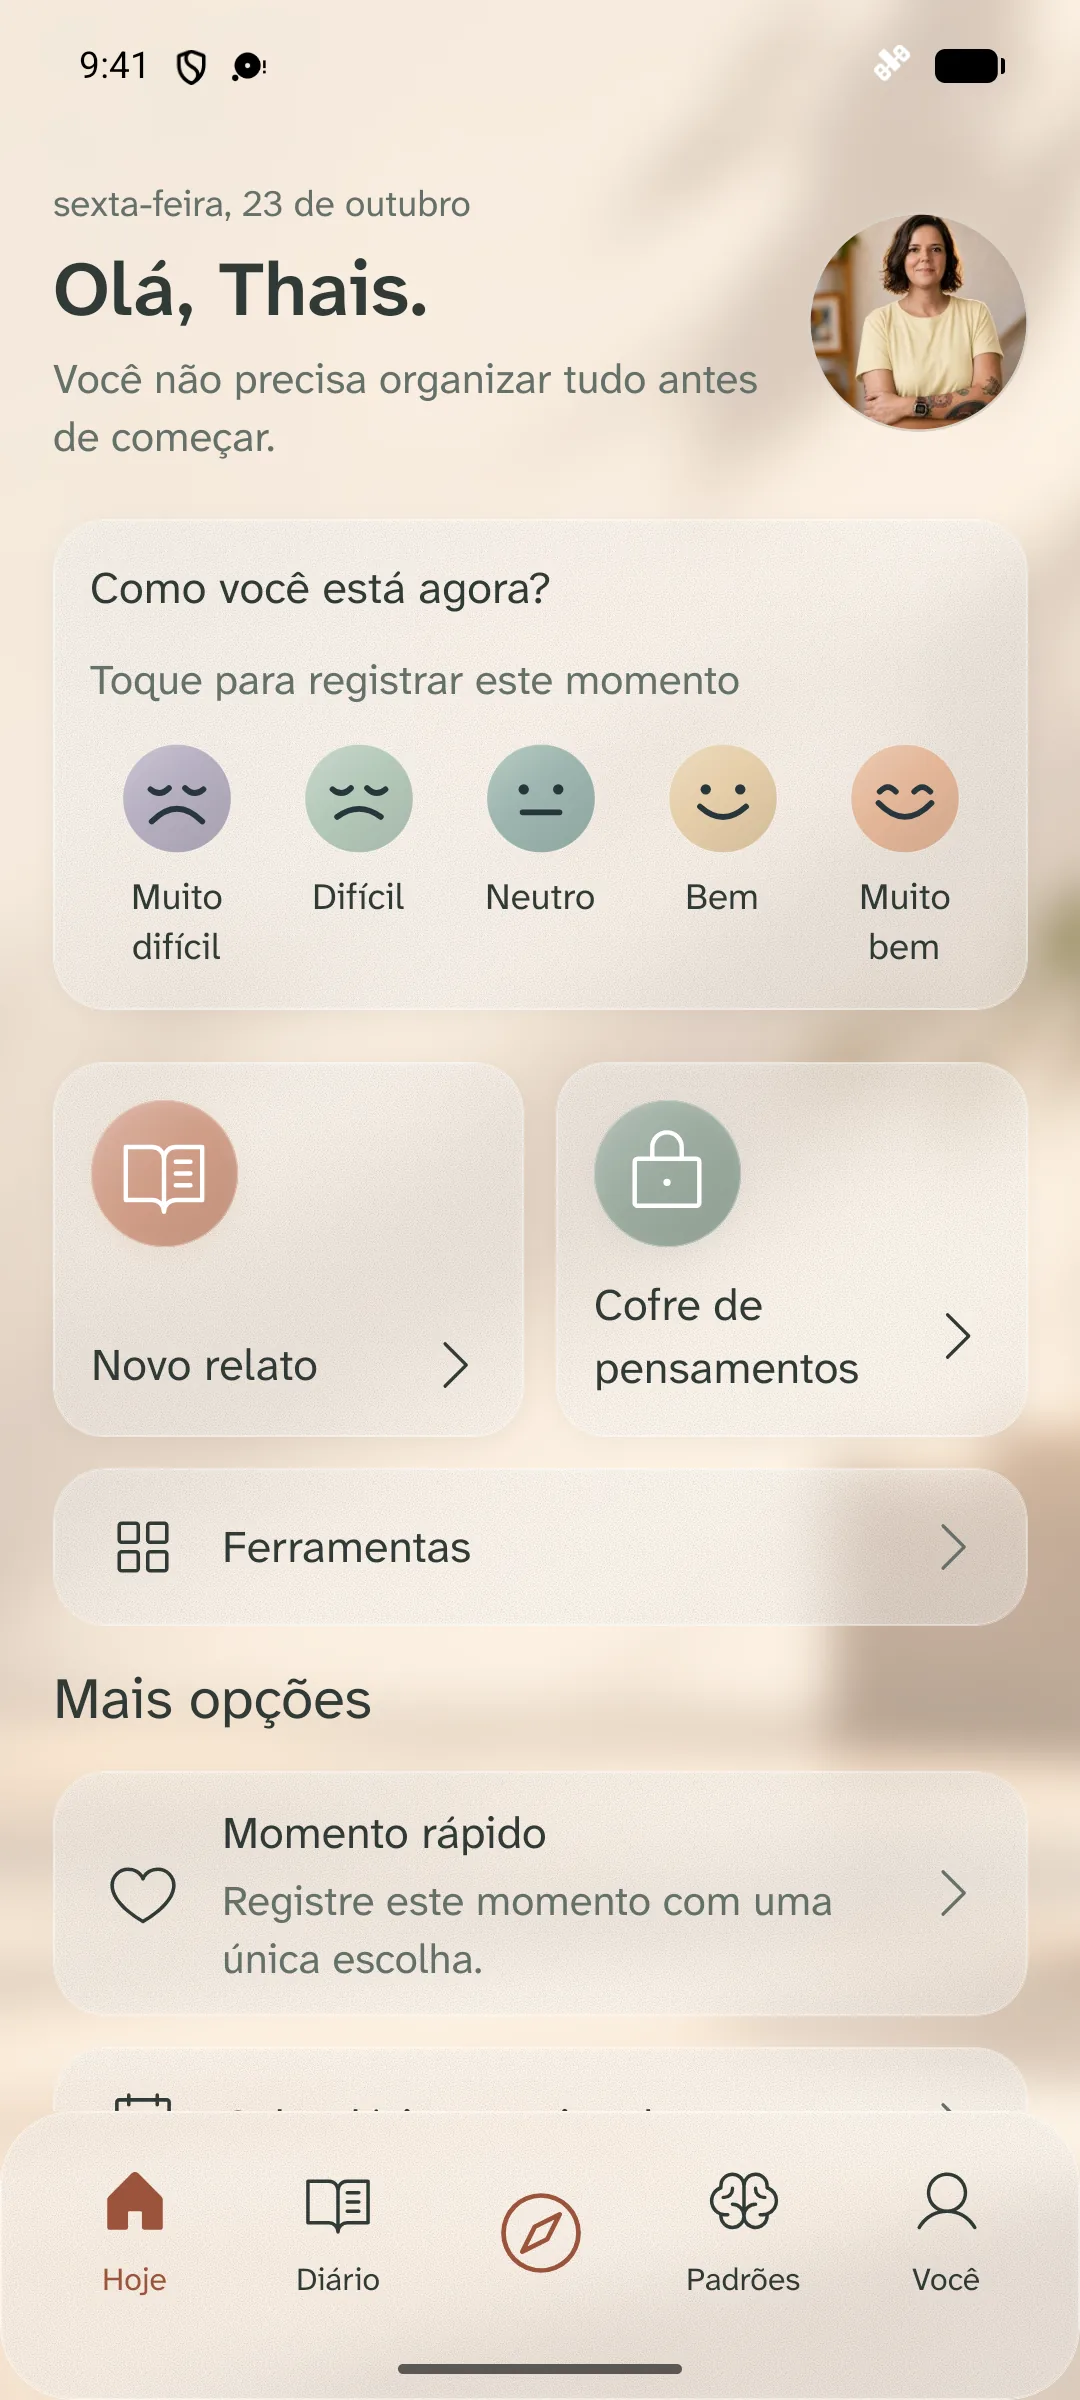
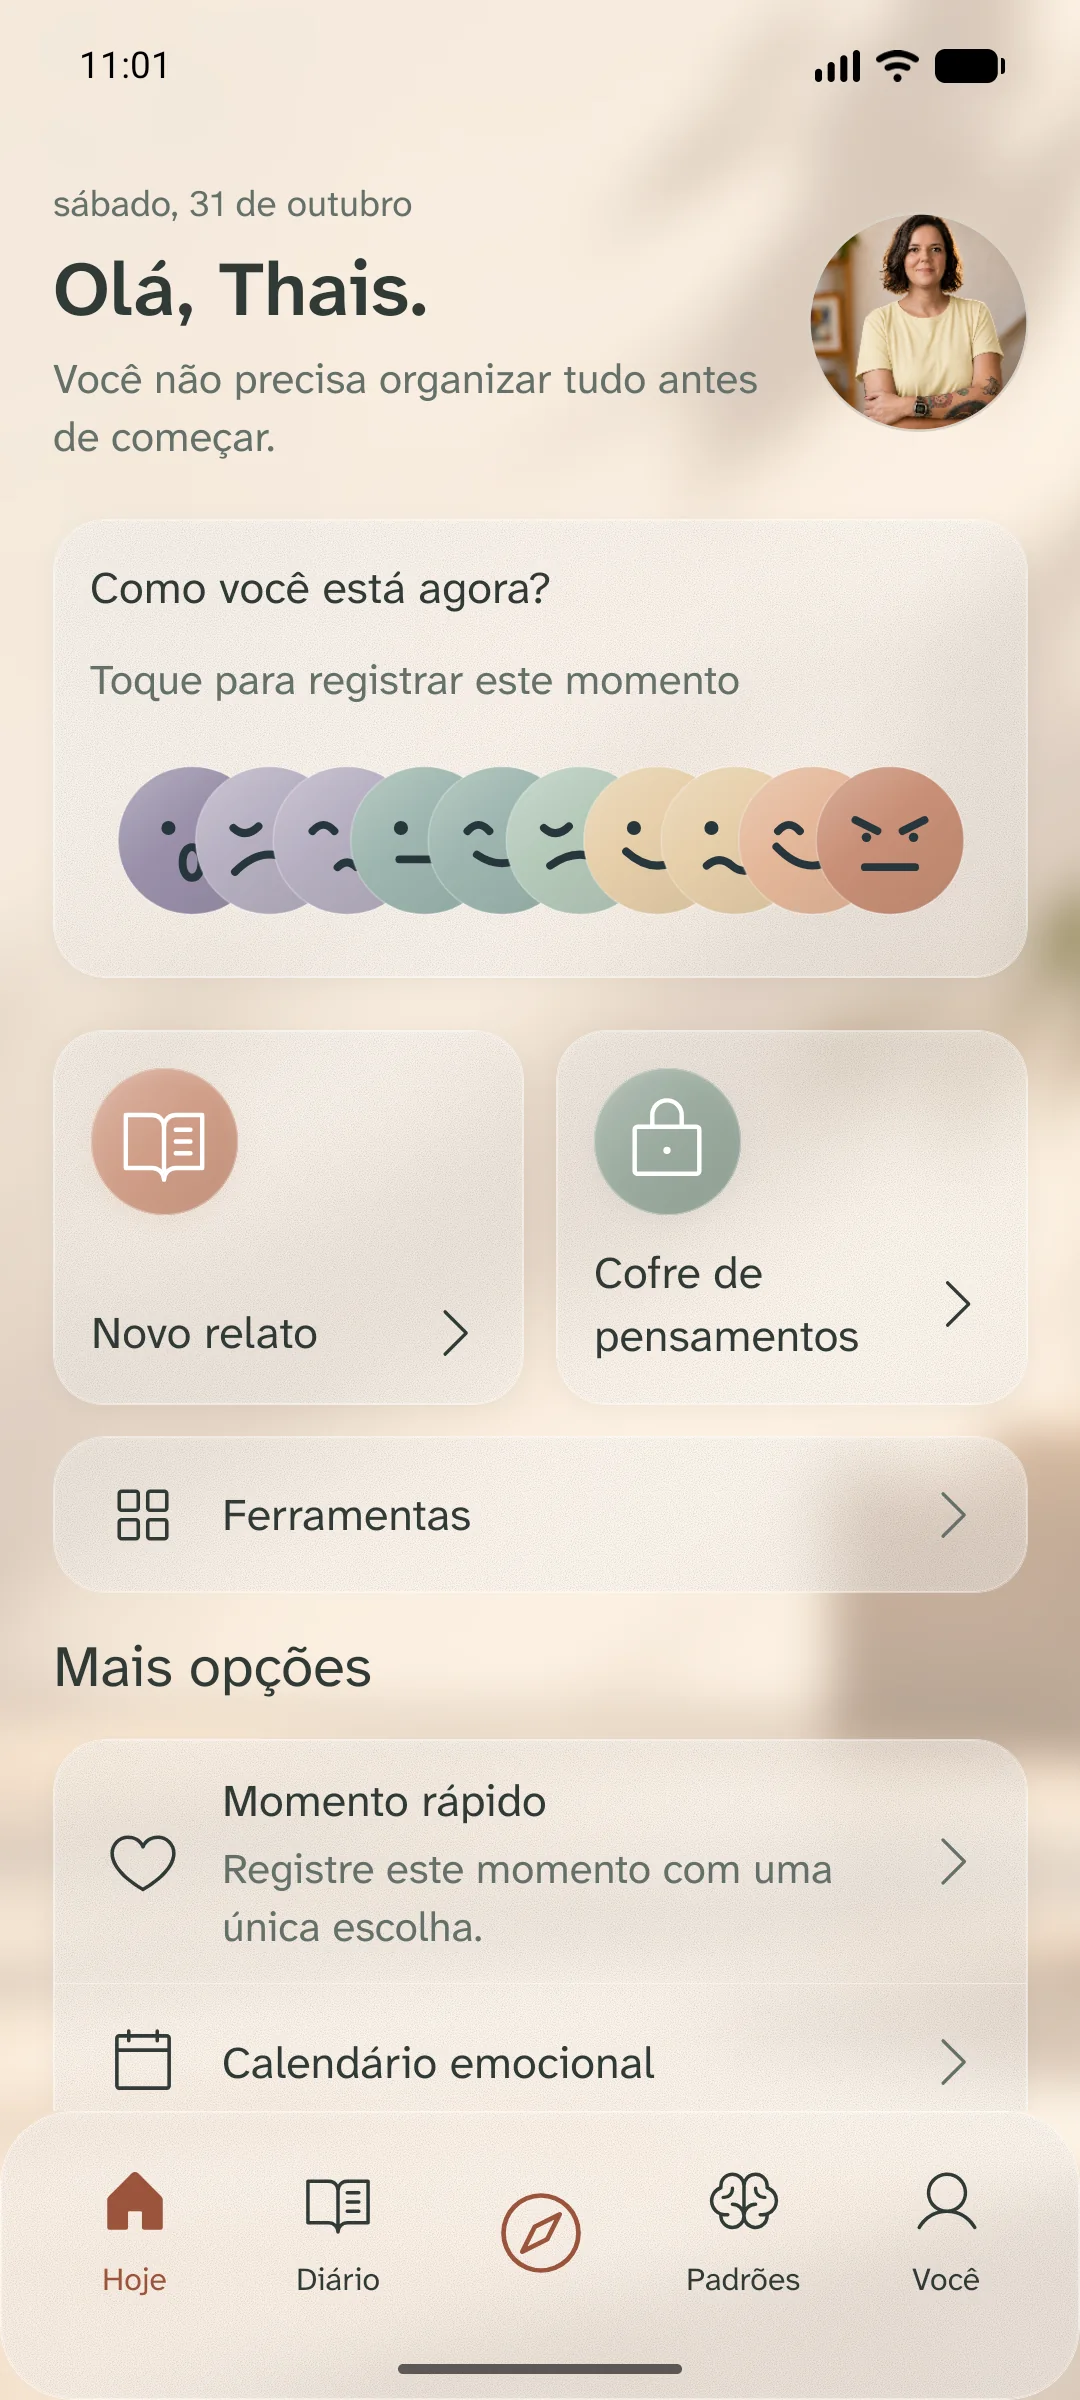
chore(portfolio): atualiza imagem aprovada do axismind

diff --git a/src/features/projects/components/ProjectCard.tsx b/src/features/projects/components/ProjectCard.tsx
@@ -23,7 +23,7 @@ export function ProjectCard({ project }: { project: Project }) {
       </div>
       <figure className="app-artwork flex flex-col items-center md:items-end">
         <div className="phone-frame">
-          <Image src={assetPath("/projects/axismind-hoje.webp")} alt="Tela Hoje do AxisMind, com registro de humor, novo relato e cofre de pensamentos" width={1080} height={2400} className="block h-auto w-full rounded-[32px]" unoptimized />
+          <Image src={assetPath("/projects/axismind-hoje.webp?v=2.5.4")} alt="Tela Hoje do AxisMind, com registro de humor, novo relato e cofre de pensamentos" width={1080} height={2400} className="block h-auto w-full rounded-[32px]" unoptimized />
         </div>
         <figcaption className="mt-6 text-center md:text-right eyebrow text-content-secondary">AXISMIND · UM DIÁRIO DO SEU JEITO</figcaption>
       </figure>
